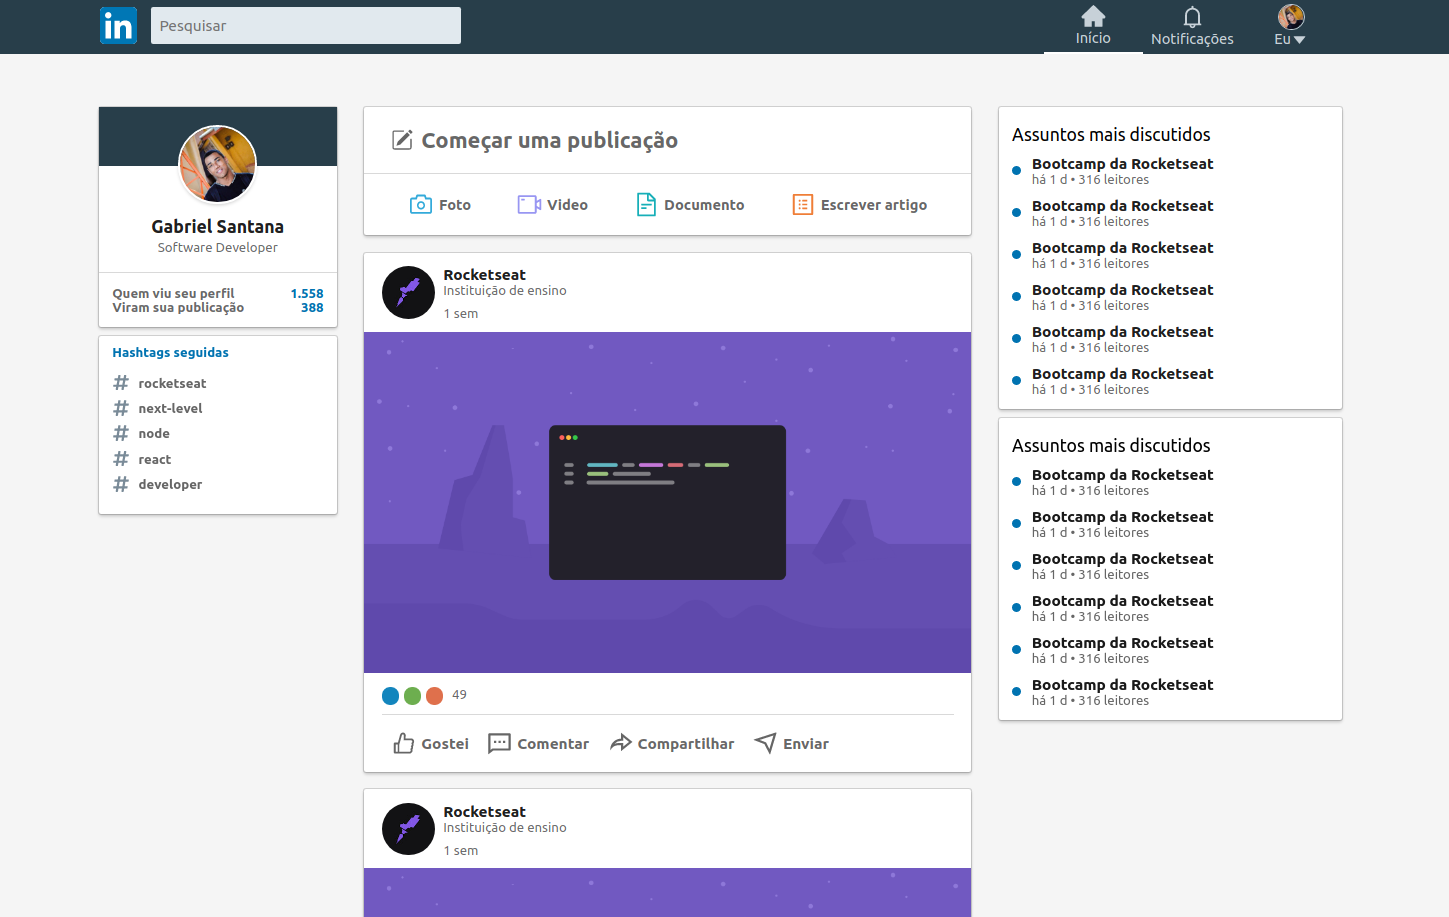
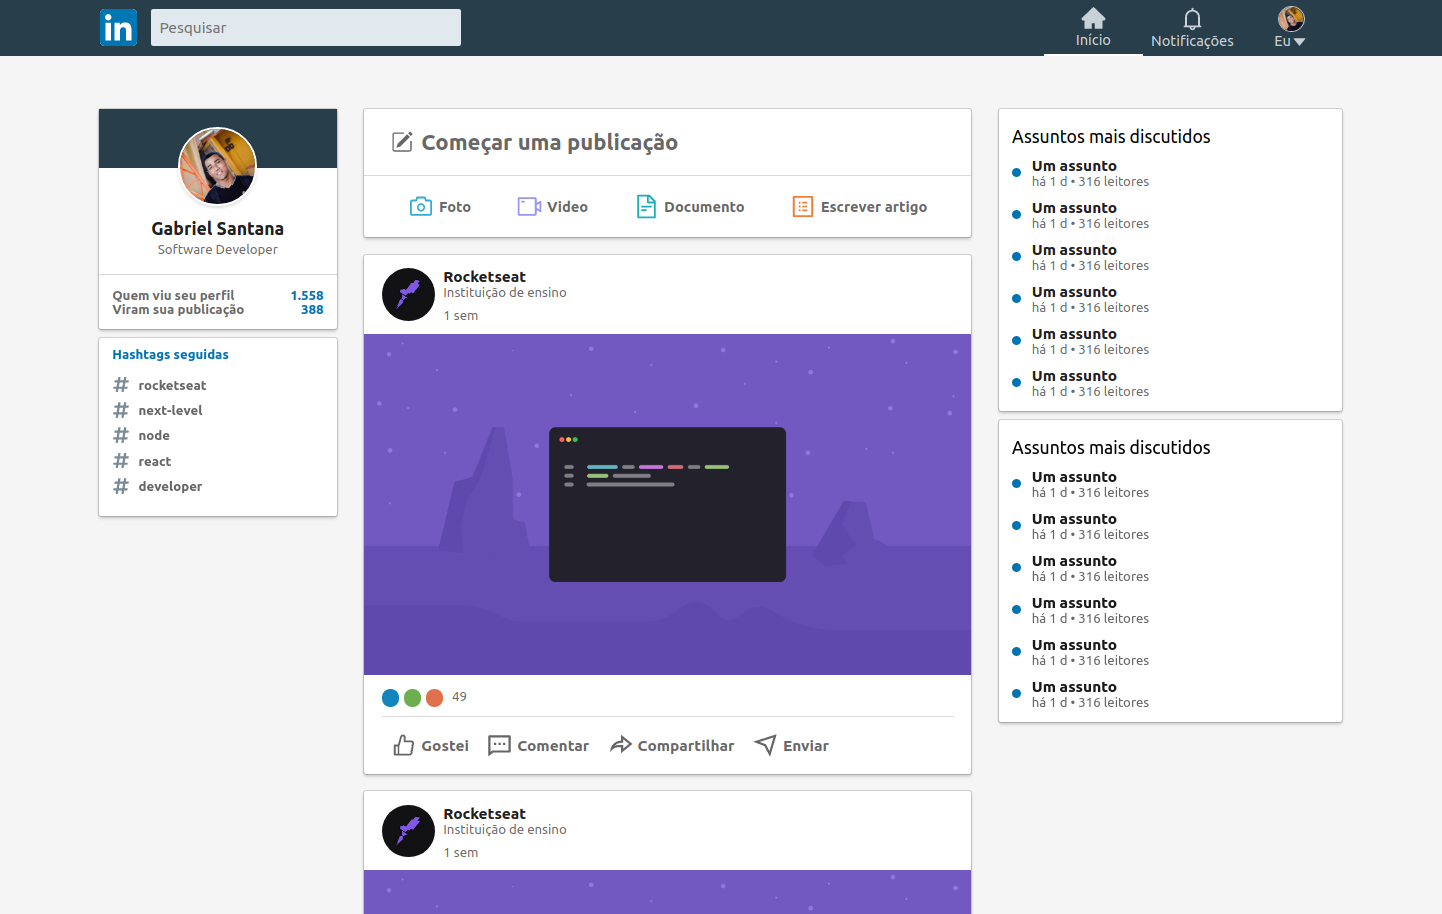
Update homepage image

diff --git a/src/components/RightColumn/TrendingPanel/index.tsx b/src/components/RightColumn/TrendingPanel/index.tsx
@@ -14,42 +14,42 @@ const TrendingPanel: React.FC = () => {
           <li>
             <span className="bullet" />
             <span className="news">
-              <span className="head">Bootcamp da Rocketseat</span>
+              <span className="head">Um assunto</span>
               <span className="subtext">há 1 d • 316 leitores</span>
             </span>
           </li>
           <li>
             <span className="bullet" />
             <span className="news">
-              <span className="head">Bootcamp da Rocketseat</span>
+              <span className="head">Um assunto</span>
               <span className="subtext">há 1 d • 316 leitores</span>
             </span>
           </li>
           <li>
             <span className="bullet" />
             <span className="news">
-              <span className="head">Bootcamp da Rocketseat</span>
+              <span className="head">Um assunto</span>
               <span className="subtext">há 1 d • 316 leitores</span>
             </span>
           </li>
           <li>
             <span className="bullet" />
             <span className="news">
-              <span className="head">Bootcamp da Rocketseat</span>
+              <span className="head">Um assunto</span>
               <span className="subtext">há 1 d • 316 leitores</span>
             </span>
           </li>
           <li>
             <span className="bullet" />
             <span className="news">
-              <span className="head">Bootcamp da Rocketseat</span>
+              <span className="head">Um assunto</span>
               <span className="subtext">há 1 d • 316 leitores</span>
             </span>
           </li>
           <li>
             <span className="bullet" />
             <span className="news">
-              <span className="head">Bootcamp da Rocketseat</span>
+              <span className="head">Um assunto</span>
               <span className="subtext">há 1 d • 316 leitores</span>
             </span>
           </li>
